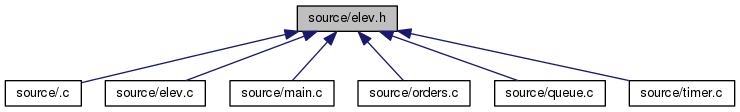
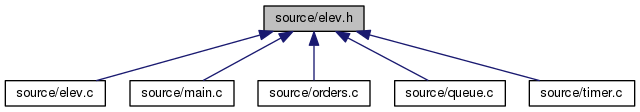
10.04.19

diff --git a/rammeverk/html/timer_8c_source.html b/rammeverk/html/timer_8c_source.html
@@ -87,7 +87,7 @@ var searchBox = new SearchBox("searchBox", "search",false,'Search');
 <div class="title">timer.c</div>  </div>
 </div><!--header-->
 <div class="contents">
-<div class="fragment"><div class="line"><a name="l00001"></a><span class="lineno">    1</span>&#160;<span class="preprocessor">#include &quot;channels.h&quot;</span></div><div class="line"><a name="l00002"></a><span class="lineno">    2</span>&#160;<span class="preprocessor">#include &quot;<a class="code" href="elev_8h.html">elev.h</a>&quot;</span></div><div class="line"><a name="l00003"></a><span class="lineno">    3</span>&#160;<span class="preprocessor">#include &quot;io.h&quot;</span></div><div class="line"><a name="l00004"></a><span class="lineno">    4</span>&#160;</div><div class="line"><a name="l00005"></a><span class="lineno">    5</span>&#160;<span class="preprocessor">#include &lt;assert.h&gt;</span></div><div class="line"><a name="l00006"></a><span class="lineno">    6</span>&#160;<span class="preprocessor">#include &lt;stdlib.h&gt;</span></div><div class="line"><a name="l00007"></a><span class="lineno">    7</span>&#160;<span class="preprocessor">#include &lt;stdio.h&gt;</span></div><div class="line"><a name="l00008"></a><span class="lineno">    8</span>&#160;<span class="preprocessor">#include &lt;stdbool.h&gt;</span></div><div class="line"><a name="l00009"></a><span class="lineno">    9</span>&#160;<span class="preprocessor">#include &lt;time.h&gt;</span></div><div class="line"><a name="l00010"></a><span class="lineno">   10</span>&#160;</div><div class="line"><a name="l00011"></a><span class="lineno">   11</span>&#160;<span class="preprocessor">#define TIMER_THERSHOLD 3000</span></div><div class="line"><a name="l00012"></a><span class="lineno">   12</span>&#160;</div><div class="line"><a name="l00013"></a><span class="lineno">   13</span>&#160;<span class="keyword">static</span> clock_t m_modul_timer;</div><div class="line"><a name="l00014"></a><span class="lineno">   14</span>&#160;</div><div class="line"><a name="l00015"></a><span class="lineno"><a class="line" href="timer_8h.html#a232289df78f39fca1fdfc992176a5d75">   15</a></span>&#160;<span class="keywordtype">void</span> <a class="code" href="timer_8h.html#a232289df78f39fca1fdfc992176a5d75">timer_start_timer</a>(){</div><div class="line"><a name="l00016"></a><span class="lineno">   16</span>&#160;    m_modul_timer = clock();</div><div class="line"><a name="l00017"></a><span class="lineno">   17</span>&#160;}</div><div class="line"><a name="l00018"></a><span class="lineno">   18</span>&#160;</div><div class="line"><a name="l00019"></a><span class="lineno">   19</span>&#160;</div><div class="line"><a name="l00020"></a><span class="lineno">   20</span>&#160;</div><div class="line"><a name="l00021"></a><span class="lineno"><a class="line" href="timer_8h.html#acd10448f170046cdc02ad6af8fb7e7dc">   21</a></span>&#160;<span class="keywordtype">bool</span> <a class="code" href="timer_8h.html#acd10448f170046cdc02ad6af8fb7e7dc">timer_check_timer</a>(){</div><div class="line"><a name="l00022"></a><span class="lineno">   22</span>&#160;    clock_t difference = clock() - m_modul_timer;</div><div class="line"><a name="l00023"></a><span class="lineno">   23</span>&#160;    <span class="keywordtype">int</span> msec = difference *1000/ CLOCKS_PER_SEC;</div><div class="line"><a name="l00024"></a><span class="lineno">   24</span>&#160;    <span class="keywordflow">if</span>(msec &gt; TIMER_THERSHOLD){</div><div class="line"><a name="l00025"></a><span class="lineno">   25</span>&#160;        <span class="keywordflow">return</span> <span class="keyword">true</span>;</div><div class="line"><a name="l00026"></a><span class="lineno">   26</span>&#160;    }</div><div class="line"><a name="l00027"></a><span class="lineno">   27</span>&#160;    <span class="keywordflow">return</span> <span class="keyword">false</span>;</div><div class="line"><a name="l00028"></a><span class="lineno">   28</span>&#160;}</div><div class="line"><a name="l00029"></a><span class="lineno">   29</span>&#160;</div><div class="line"><a name="l00030"></a><span class="lineno">   30</span>&#160;</div><div class="ttc" id="elev_8h_html"><div class="ttname"><a href="elev_8h.html">elev.h</a></div><div class="ttdoc">A simple library for doing operations on memory buffers consisting of integers. </div></div>
+<div class="fragment"><div class="line"><a name="l00001"></a><span class="lineno">    1</span>&#160;<span class="preprocessor">#include &quot;channels.h&quot;</span></div><div class="line"><a name="l00002"></a><span class="lineno">    2</span>&#160;<span class="preprocessor">#include &quot;<a class="code" href="elev_8h.html">elev.h</a>&quot;</span></div><div class="line"><a name="l00003"></a><span class="lineno">    3</span>&#160;<span class="preprocessor">#include &quot;io.h&quot;</span></div><div class="line"><a name="l00004"></a><span class="lineno">    4</span>&#160;</div><div class="line"><a name="l00005"></a><span class="lineno">    5</span>&#160;<span class="preprocessor">#include &lt;assert.h&gt;</span></div><div class="line"><a name="l00006"></a><span class="lineno">    6</span>&#160;<span class="preprocessor">#include &lt;stdlib.h&gt;</span></div><div class="line"><a name="l00007"></a><span class="lineno">    7</span>&#160;<span class="preprocessor">#include &lt;stdio.h&gt;</span></div><div class="line"><a name="l00008"></a><span class="lineno">    8</span>&#160;<span class="preprocessor">#include &lt;stdbool.h&gt;</span></div><div class="line"><a name="l00009"></a><span class="lineno">    9</span>&#160;<span class="preprocessor">#include &lt;time.h&gt;</span></div><div class="line"><a name="l00010"></a><span class="lineno">   10</span>&#160;</div><div class="line"><a name="l00011"></a><span class="lineno">   11</span>&#160;<span class="preprocessor">#define TIMER_THRESHOLD 3000</span></div><div class="line"><a name="l00012"></a><span class="lineno">   12</span>&#160;</div><div class="line"><a name="l00013"></a><span class="lineno">   13</span>&#160;<span class="keyword">static</span> clock_t m_modul_timer;</div><div class="line"><a name="l00014"></a><span class="lineno">   14</span>&#160;</div><div class="line"><a name="l00015"></a><span class="lineno"><a class="line" href="timer_8h.html#a232289df78f39fca1fdfc992176a5d75">   15</a></span>&#160;<span class="keywordtype">void</span> <a class="code" href="timer_8h.html#a232289df78f39fca1fdfc992176a5d75">timer_start_timer</a>(){</div><div class="line"><a name="l00016"></a><span class="lineno">   16</span>&#160;    m_modul_timer = clock();</div><div class="line"><a name="l00017"></a><span class="lineno">   17</span>&#160;}</div><div class="line"><a name="l00018"></a><span class="lineno">   18</span>&#160;</div><div class="line"><a name="l00019"></a><span class="lineno">   19</span>&#160;</div><div class="line"><a name="l00020"></a><span class="lineno">   20</span>&#160;</div><div class="line"><a name="l00021"></a><span class="lineno"><a class="line" href="timer_8h.html#acd10448f170046cdc02ad6af8fb7e7dc">   21</a></span>&#160;<span class="keywordtype">bool</span> <a class="code" href="timer_8h.html#acd10448f170046cdc02ad6af8fb7e7dc">timer_check_timer</a>(){</div><div class="line"><a name="l00022"></a><span class="lineno">   22</span>&#160;    clock_t difference = clock() - m_modul_timer;</div><div class="line"><a name="l00023"></a><span class="lineno">   23</span>&#160;    <span class="keywordtype">int</span> msec = difference *1000/ CLOCKS_PER_SEC;</div><div class="line"><a name="l00024"></a><span class="lineno">   24</span>&#160;    <span class="keywordflow">if</span>(msec &gt; TIMER_THRESHOLD){</div><div class="line"><a name="l00025"></a><span class="lineno">   25</span>&#160;        <span class="keywordflow">return</span> <span class="keyword">true</span>;</div><div class="line"><a name="l00026"></a><span class="lineno">   26</span>&#160;    }</div><div class="line"><a name="l00027"></a><span class="lineno">   27</span>&#160;    <span class="keywordflow">return</span> <span class="keyword">false</span>;</div><div class="line"><a name="l00028"></a><span class="lineno">   28</span>&#160;}</div><div class="line"><a name="l00029"></a><span class="lineno">   29</span>&#160;</div><div class="line"><a name="l00030"></a><span class="lineno">   30</span>&#160;</div><div class="ttc" id="elev_8h_html"><div class="ttname"><a href="elev_8h.html">elev.h</a></div><div class="ttdoc">A simple library for doing operations on memory buffers consisting of integers. </div></div>
 <div class="ttc" id="timer_8h_html_acd10448f170046cdc02ad6af8fb7e7dc"><div class="ttname"><a href="timer_8h.html#acd10448f170046cdc02ad6af8fb7e7dc">timer_check_timer</a></div><div class="ttdeci">bool timer_check_timer()</div><div class="ttdoc">Compares the difference between m_modul_timer and current time to TIMER_THRESHOLD. </div><div class="ttdef"><b>Definition:</b> <a href="timer_8c_source.html#l00021">timer.c:21</a></div></div>
 <div class="ttc" id="timer_8h_html_a232289df78f39fca1fdfc992176a5d75"><div class="ttname"><a href="timer_8h.html#a232289df78f39fca1fdfc992176a5d75">timer_start_timer</a></div><div class="ttdeci">void timer_start_timer()</div><div class="ttdoc">sets m_modul_timer to current time. </div><div class="ttdef"><b>Definition:</b> <a href="timer_8c_source.html#l00015">timer.c:15</a></div></div>
 </div><!-- fragment --></div><!-- contents -->

diff --git a/rammeverk/html/files.html b/rammeverk/html/files.html
@@ -86,19 +86,18 @@ var searchBox = new SearchBox("searchBox", "search",false,'Search');
 <div class="textblock">Here is a list of all documented files with brief descriptions:</div><div class="directory">
 <div class="levels">[detail level <span onclick="javascript:toggleLevel(1);">1</span><span onclick="javascript:toggleLevel(2);">2</span>]</div><table class="directory">
 <tr id="row_0_" class="even"><td class="entry"><span style="width:0px;display:inline-block;">&#160;</span><span id="arr_0_" class="arrow" onclick="toggleFolder('0_')">&#9660;</span><span id="img_0_" class="iconfopen" onclick="toggleFolder('0_')">&#160;</span><a class="el" href="dir_b2f33c71d4aa5e7af42a1ca61ff5af1b.html" target="_self">source</a></td><td class="desc"></td></tr>
-<tr id="row_0_0_"><td class="entry"><span style="width:32px;display:inline-block;">&#160;</span><a href="_8c_source.html"><span class="icondoc"></span></a><b>.c</b></td><td class="desc"></td></tr>
-<tr id="row_0_1_" class="even"><td class="entry"><span style="width:32px;display:inline-block;">&#160;</span><a href="channels_8h_source.html"><span class="icondoc"></span></a><b>channels.h</b></td><td class="desc"></td></tr>
-<tr id="row_0_2_"><td class="entry"><span style="width:32px;display:inline-block;">&#160;</span><a href="elev_8c_source.html"><span class="icondoc"></span></a><b>elev.c</b></td><td class="desc"></td></tr>
-<tr id="row_0_3_" class="even"><td class="entry"><span style="width:32px;display:inline-block;">&#160;</span><a href="elev_8h_source.html"><span class="icondoc"></span></a><a class="el" href="elev_8h.html" target="_self">elev.h</a></td><td class="desc">A simple library for doing operations on memory buffers consisting of integers </td></tr>
-<tr id="row_0_4_"><td class="entry"><span style="width:32px;display:inline-block;">&#160;</span><a href="io_8c_source.html"><span class="icondoc"></span></a><b>io.c</b></td><td class="desc"></td></tr>
-<tr id="row_0_5_" class="even"><td class="entry"><span style="width:32px;display:inline-block;">&#160;</span><a href="io_8h_source.html"><span class="icondoc"></span></a><b>io.h</b></td><td class="desc"></td></tr>
-<tr id="row_0_6_"><td class="entry"><span style="width:32px;display:inline-block;">&#160;</span><a href="main_8c_source.html"><span class="icondoc"></span></a><b>main.c</b></td><td class="desc"></td></tr>
-<tr id="row_0_7_" class="even"><td class="entry"><span style="width:32px;display:inline-block;">&#160;</span><a href="orders_8c_source.html"><span class="icondoc"></span></a><b>orders.c</b></td><td class="desc"></td></tr>
-<tr id="row_0_8_"><td class="entry"><span style="width:32px;display:inline-block;">&#160;</span><a href="orders_8h_source.html"><span class="icondoc"></span></a><a class="el" href="orders_8h.html" target="_self">orders.h</a></td><td class="desc">Library of functions for linking orders and elevator functionality </td></tr>
-<tr id="row_0_9_" class="even"><td class="entry"><span style="width:32px;display:inline-block;">&#160;</span><a href="queue_8c_source.html"><span class="icondoc"></span></a><b>queue.c</b></td><td class="desc"></td></tr>
-<tr id="row_0_10_"><td class="entry"><span style="width:32px;display:inline-block;">&#160;</span><a href="queue_8h_source.html"><span class="icondoc"></span></a><a class="el" href="queue_8h.html" target="_self">queue.h</a></td><td class="desc">Library of functions handling the elevators queue system </td></tr>
-<tr id="row_0_11_" class="even"><td class="entry"><span style="width:32px;display:inline-block;">&#160;</span><a href="timer_8c_source.html"><span class="icondoc"></span></a><b>timer.c</b></td><td class="desc"></td></tr>
-<tr id="row_0_12_"><td class="entry"><span style="width:32px;display:inline-block;">&#160;</span><a href="timer_8h_source.html"><span class="icondoc"></span></a><a class="el" href="timer_8h.html" target="_self">timer.h</a></td><td class="desc">Library of functions used in time dependent operations </td></tr>
+<tr id="row_0_0_"><td class="entry"><span style="width:32px;display:inline-block;">&#160;</span><a href="channels_8h_source.html"><span class="icondoc"></span></a><b>channels.h</b></td><td class="desc"></td></tr>
+<tr id="row_0_1_" class="even"><td class="entry"><span style="width:32px;display:inline-block;">&#160;</span><a href="elev_8c_source.html"><span class="icondoc"></span></a><b>elev.c</b></td><td class="desc"></td></tr>
+<tr id="row_0_2_"><td class="entry"><span style="width:32px;display:inline-block;">&#160;</span><a href="elev_8h_source.html"><span class="icondoc"></span></a><a class="el" href="elev_8h.html" target="_self">elev.h</a></td><td class="desc">A simple library for doing operations on memory buffers consisting of integers </td></tr>
+<tr id="row_0_3_" class="even"><td class="entry"><span style="width:32px;display:inline-block;">&#160;</span><a href="io_8c_source.html"><span class="icondoc"></span></a><b>io.c</b></td><td class="desc"></td></tr>
+<tr id="row_0_4_"><td class="entry"><span style="width:32px;display:inline-block;">&#160;</span><a href="io_8h_source.html"><span class="icondoc"></span></a><b>io.h</b></td><td class="desc"></td></tr>
+<tr id="row_0_5_" class="even"><td class="entry"><span style="width:32px;display:inline-block;">&#160;</span><a href="main_8c_source.html"><span class="icondoc"></span></a><b>main.c</b></td><td class="desc"></td></tr>
+<tr id="row_0_6_"><td class="entry"><span style="width:32px;display:inline-block;">&#160;</span><a href="orders_8c_source.html"><span class="icondoc"></span></a><b>orders.c</b></td><td class="desc"></td></tr>
+<tr id="row_0_7_" class="even"><td class="entry"><span style="width:32px;display:inline-block;">&#160;</span><a href="orders_8h_source.html"><span class="icondoc"></span></a><a class="el" href="orders_8h.html" target="_self">orders.h</a></td><td class="desc">Library of functions for linking orders and elevator functionality </td></tr>
+<tr id="row_0_8_"><td class="entry"><span style="width:32px;display:inline-block;">&#160;</span><a href="queue_8c_source.html"><span class="icondoc"></span></a><b>queue.c</b></td><td class="desc"></td></tr>
+<tr id="row_0_9_" class="even"><td class="entry"><span style="width:32px;display:inline-block;">&#160;</span><a href="queue_8h_source.html"><span class="icondoc"></span></a><a class="el" href="queue_8h.html" target="_self">queue.h</a></td><td class="desc">Library of functions handling the elevators queue system </td></tr>
+<tr id="row_0_10_"><td class="entry"><span style="width:32px;display:inline-block;">&#160;</span><a href="timer_8c_source.html"><span class="icondoc"></span></a><b>timer.c</b></td><td class="desc"></td></tr>
+<tr id="row_0_11_" class="even"><td class="entry"><span style="width:32px;display:inline-block;">&#160;</span><a href="timer_8h_source.html"><span class="icondoc"></span></a><a class="el" href="timer_8h.html" target="_self">timer.h</a></td><td class="desc">Library of functions used in time dependent operations </td></tr>
 </table>
 </div><!-- directory -->
 </div><!-- contents -->

diff --git a/rammeverk/html/elev_8h.html b/rammeverk/html/elev_8h.html
@@ -100,12 +100,11 @@ This graph shows which files directly or indirectly include this file:</div>
 <div class="dyncontent">
 <div class="center"><img src="elev_8h__dep__incl.png" border="0" usemap="#source_2elev_8hdep" alt=""/></div>
 <map name="source_2elev_8hdep" id="source_2elev_8hdep">
-<area shape="rect" id="node2" href="_8c_source.html" title="source/.c" alt="" coords="5,80,81,107"/>
-<area shape="rect" id="node3" href="elev_8c_source.html" title="source/elev.c" alt="" coords="105,80,205,107"/>
-<area shape="rect" id="node4" href="main_8c_source.html" title="source/main.c" alt="" coords="230,80,334,107"/>
-<area shape="rect" id="node5" href="orders_8c_source.html" title="source/orders.c" alt="" coords="358,80,470,107"/>
-<area shape="rect" id="node6" href="queue_8c_source.html" title="source/queue.c" alt="" coords="495,80,605,107"/>
-<area shape="rect" id="node7" href="timer_8c_source.html" title="source/timer.c" alt="" coords="629,80,735,107"/>
+<area shape="rect" id="node2" href="elev_8c_source.html" title="source/elev.c" alt="" coords="5,80,105,107"/>
+<area shape="rect" id="node3" href="main_8c_source.html" title="source/main.c" alt="" coords="130,80,234,107"/>
+<area shape="rect" id="node4" href="orders_8c_source.html" title="source/orders.c" alt="" coords="258,80,370,107"/>
+<area shape="rect" id="node5" href="queue_8c_source.html" title="source/queue.c" alt="" coords="395,80,505,107"/>
+<area shape="rect" id="node6" href="timer_8c_source.html" title="source/timer.c" alt="" coords="529,80,635,107"/>
 </map>
 </div>
 </div>

diff --git a/rammeverk/latex/files.tex b/rammeverk/latex/files.tex
@@ -1,6 +1,5 @@
 \section{File List}
 Here is a list of all documented files with brief descriptions\+:\begin{DoxyCompactList}
-\item\contentsline{section}{source/{\bfseries .\+c} }{\pageref{_8c}}{}
 \item\contentsline{section}{source/{\bfseries channels.\+h} }{\pageref{channels_8h}}{}
 \item\contentsline{section}{source/{\bfseries elev.\+c} }{\pageref{elev_8c}}{}
 \item\contentsline{section}{source/\hyperlink{elev_8h}{elev.\+h} \\*A simple library for doing operations on memory buffers consisting of integers }{\pageref{elev_8h}}{}

diff --git a/rammeverk/latex/elev_8h.tex b/rammeverk/latex/elev_8h.tex
@@ -5,7 +5,8 @@
 A simple library for doing operations on memory buffers consisting of integers.  
 
 
-This graph shows which files directly or indirectly include this file\+:\nopagebreak
+This graph shows which files directly or indirectly include this file\+:
+\nopagebreak
 \begin{figure}[H]
 \begin{center}
 \leavevmode
